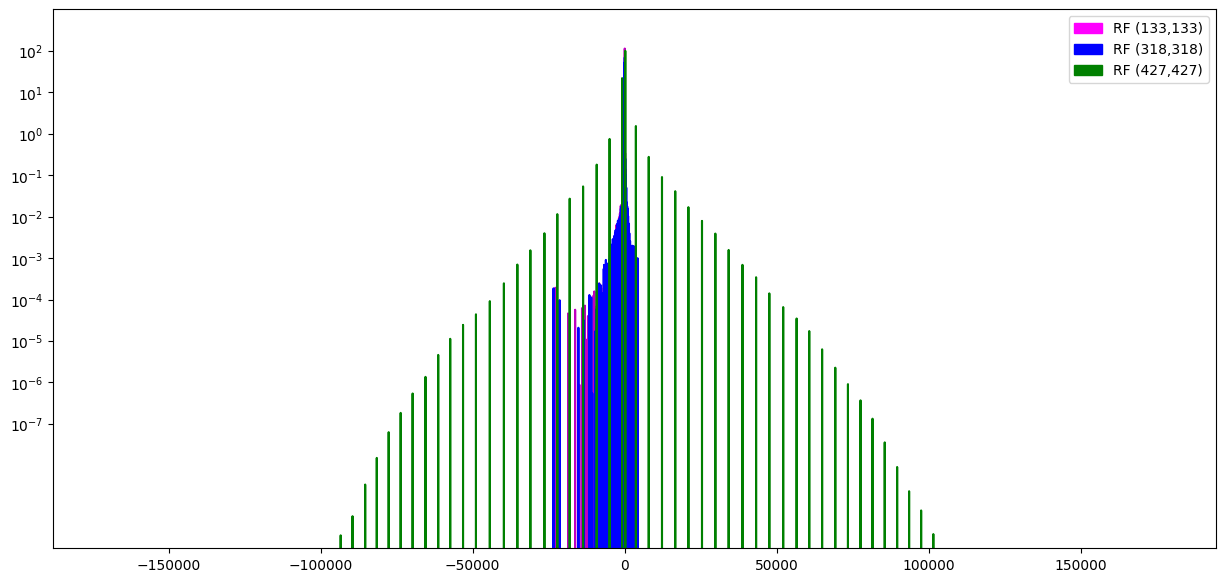
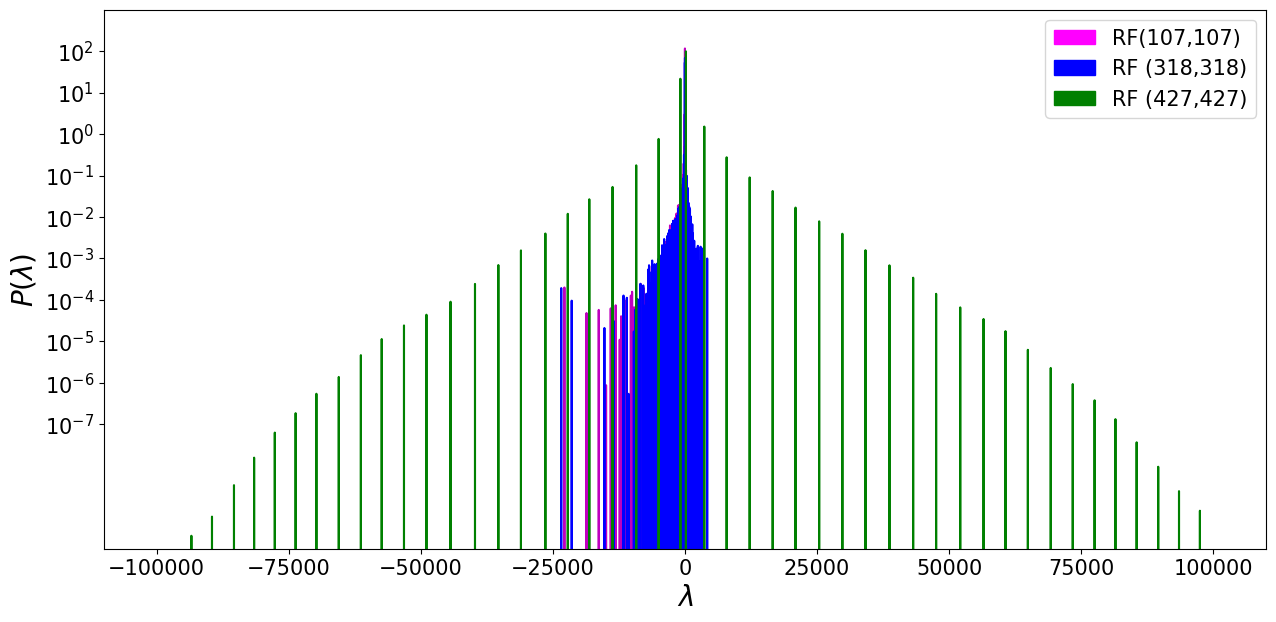
changes

diff --git a/03-experimental_results.tex b/03-experimental_results.tex
@@ -5,10 +5,10 @@
  datasets. 
 
 
- \todo[inline]{Here I never talked of how I calculated the receptive field, which I used a libary that calculates
- the gradient projection in a dummy input space with a projected gradient of 1 in the middle of all the fueature maps of the
-last convolutional layer for the two architectures.
-}
+%  \todo[inline]{Here I never talked of how I calculated the receptive field, which I used a libary that calculates
+%  the gradient projection in a dummy input space with a projected gradient of 1 in the middle of all the fueature maps of the
+% last convolutional layer for the two architectures.
+% }
 
 
 \subsection{Experimental settings}
@@ -197,13 +197,13 @@ encompass larger eigen values. This means that the landscape of that models has 
 (and ascent) making the landscape more chaotic  and difficult to traverse than for smaller receptive fields (maybe search
 a citation that corroborates this?).
 
-\todo[inline]{Talk about the training trajectory in \Cref{fig:training_trajectories}, and mention that the figures in
-\Cref{fig:hessian_vgg_cifar10,fig:hessian_resnet50_cifar10} explain such behaviour. In \Cref{fig:images-resnet50_CIFAR10_training-png}
-I trained for double the epochs trying to show that even with more training the
-larger receptive field cannot match the smaller receptive field. The bump seen arround 200 epochs is due tu the learning
-rate schedule, which is a cosine schedule with Tmax=200, right now im training a model with Tmax=400 to see if it that
-claim is still valid. All the accuracies seen throughtout the document correspond to the best model while trainig
-e.g. the bump}
+% \todo[inline]{Talk about the training trajectory in \Cref{fig:training_trajectories}, and mention that the figures in
+% \Cref{fig:hessian_vgg_cifar10,fig:hessian_resnet50_cifar10} explain such behaviour. In \Cref{fig:images-resnet50_CIFAR10_training-png}
+% I trained for double the epochs trying to show that even with more training the
+% larger receptive field cannot match the smaller receptive field. The bump seen arround 200 epochs is due tu the learning
+% rate schedule, which is a cosine schedule with Tmax=200, right now im training a model with Tmax=400 to see if it that
+% claim is still valid. All the accuracies seen throughtout the document correspond to the best model while trainig
+% e.g. the bump}
 
 
 
@@ -220,9 +220,7 @@ e.g. the bump}
     \caption{After training}
     \label{subfig:Hessian_VGG_after_training}
      \end{subfigure}
-     \caption{Largest 90 eigen values of VGG model on CIFAR10 for different Receptive Fields \todo[inline]{Here I can
-         put labels
-     like $\lambda$ and $P(\lambda)$. Larger font} }
+      \caption{Largest 90 eigen values of VGG model on CIFAR10 for different Receptive Fields}%\todo[inline]{Here I can put labels like $\lambda$ and $P(\lambda)$. Larger font} }
     \label{fig:hessian_vgg_cifar10}
 \end{figure}
 \begin{figure}[!htp]
@@ -400,7 +398,7 @@ accurate information can be extracted by coarsely tuned units \citep{ballardPara
 \label{tab:width_experiments}
 \end{table}
 
-\todo[inline]{Here I'm planning to include results of a ResNet24 model that has all the same components as ReseNet50 but it simply is more shallow. Also, I am running experiments on width for two more receptive fields, 318 and 1415. Also, I have not implemented / shown the information measure we talked about with Netta, but, as Netta suggested, it can simply be $\frac{\text{Difference in Accuracy}}{\text{Dense Accuracy}}$}
+% \todo[inline]{Here I'm planning to include results of a ResNet24 model that has all the same components as ReseNet50 but it simply is more shallow. Also, I am running experiments on width for two more receptive fields, 318 and 1415. Also, I have not implemented / shown the information measure we talked about with Netta, but, as Netta suggested, it can simply be $\frac{\text{Difference in Accuracy}}{\text{Dense Accuracy}}$}
 
 % PIXEL IMPORTANCE SECTION 
 %

diff --git a/main.tex b/main.tex
@@ -99,7 +99,11 @@
 
 
 \begin{abstract}
-In this paper we empirically investigate the effect that the receptive field has on a network's trainability and its one-shot potential. Our results are validated on VGG and ReseNet50 architecture and in CIFAR10 and Tiny ImageNet. We also fine-tune the models to test their real-world application.
+In this paper, we empirically investigate the effect that the receptive field has on a network's trainability and its one-shot potential. We show that by increasing the receptive field there is information that cannot be recovered by width or depth and that such information shapes not only the type of features that the net network learns but also its loss landscape.
+Our results are validated on the VGG and ReseNet50 architecture trained on CIFAR10 and Tiny ImageNet datasets.
+
+
+
 \end{abstract}
 
 \section{Introduction}
@@ -108,14 +112,14 @@ In this paper we empirically investigate the effect that the receptive field has
 \input{01-related_works.tex}
 \section{Experimental results}
 \input{03-experimental_results.tex}
-\section{Conclusions and Future work}
+\section{Conclusions and Future Work}
 \label{sec:conclusion}
 
 
 
  In this work, we showed how the receptive field affects the loss landscape of neural networks along with its representations and its behaviour on the input image.
 It is important to note that there are other ways to manipulate the receptive field such as changing the kernel size of the
-convolutional networks,stride, and dilation of the convolutional networks. In this work, used the minimum
+convolutional networks, stride, and dilation of the convolutional networks. In this work, used the minimum
 intervention that would not modify the number of weights of the models as we manipulated the receptive field of the
 models. Additionally, as we changed the receptive field of the models we changed the  size of internal representations,
 which can greatly affect the behaviour of the models. Future work will concentrate on testing other ways to manipulate
